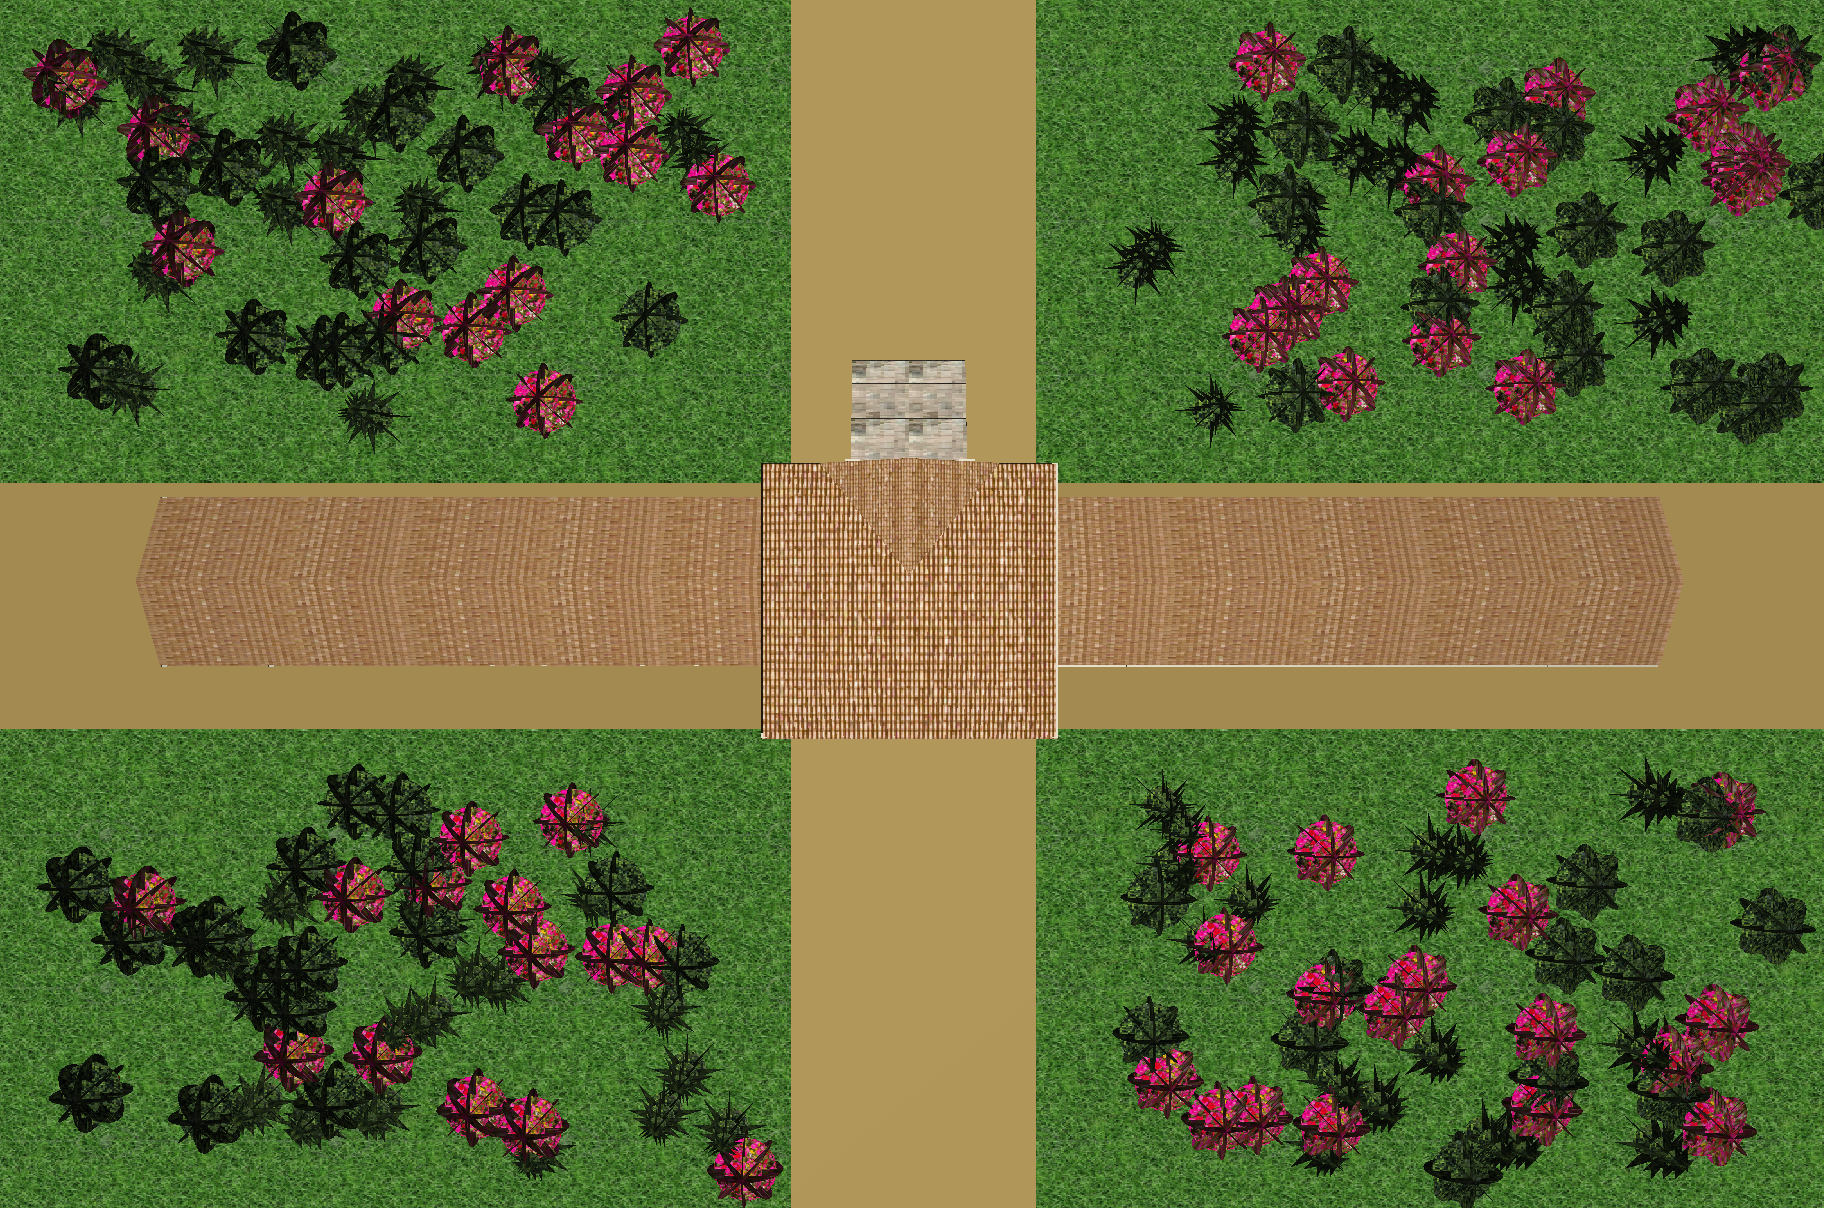
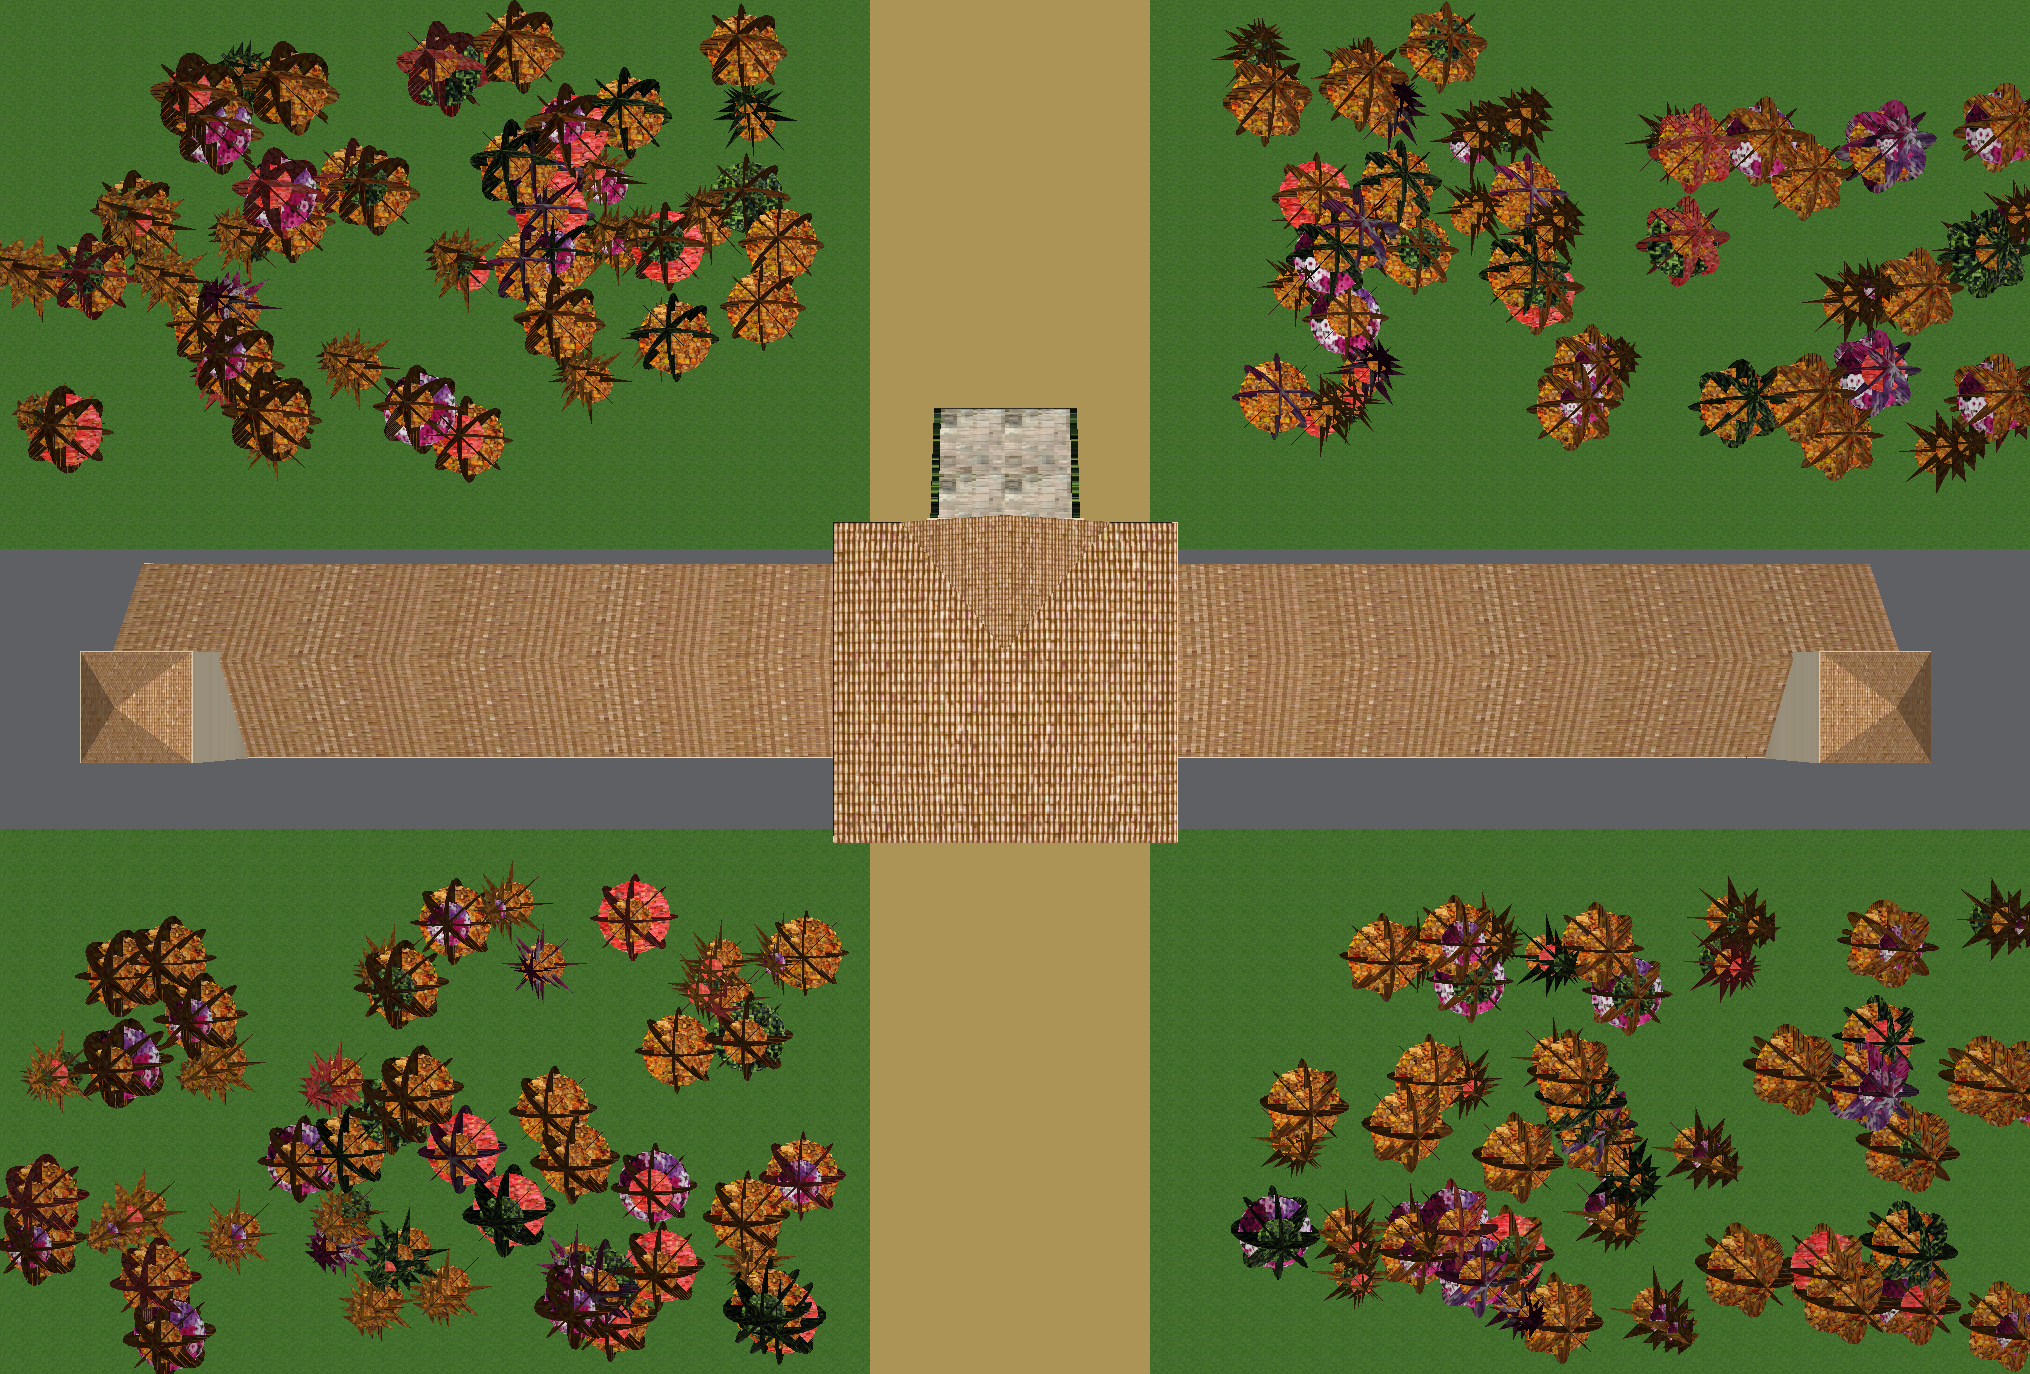
fixes

diff --git a/0-villa-emo/view.py b/0-villa-emo/view.py
@@ -1,6 +1,23 @@
 from larlib import *
 import os
 import random
+from datetime import date, datetime
+import numpy
+
+def get_season(now):
+    Y = 2000
+    seasons = [(3, (date(Y, 1, 1), date(Y, 3, 20))),
+               (0, (date(Y, 3, 21), date(Y, 6, 20))),
+               (1, (date(Y, 6, 21), date(Y, 9, 22))),
+               (2, (date(Y, 9, 23), date(Y, 12, 20))),
+               (3, (date(Y, 12, 21), date(Y, 12, 31)))]
+    if isinstance(now, datetime):
+        now = now.date()
+    now = now.replace(year=Y)
+    return next(season for season, (start, end) in seasons
+                if start <= now <= end)
+
+SEASON = get_season(date.today())
 
 __dir = os.path.dirname(__file__)
 
@@ -20,10 +37,13 @@ def texture(f, scale_x=1., scale_y=1.):
 def tegole(scale_x=2, scale_y=2):
     return texture("tegole.jpg", scale_x, scale_y)
 
-
 def intonaco():
-    return HEX("#ccc6b1")
+    return texture("intonaco.jpg")
 
+
+def cespugli(depth, height, N):
+    cespuglio = texture("1.jpg")(CUBOID([depth, depth, height]))
+    return STRUCT(map(lambda x : T([2, 3])([x*depth, x*height])(cespuglio), range(0, N)))
 
 def tetto_piramidale(depth, width, height):
     """
@@ -165,8 +185,7 @@ def ripeti(object, times, space=0):
 
 def gorgegous_column(dm, h):
     cylndr = COMP([JOIN, TRUNCONE([dm / 2, .8 * dm / 2, h])])(24)
-    torus_bot = COMP([JOIN, TORUS([dm / 12, dm / 2])])([8, 27])
-    torus_top = COMP([JOIN, TORUS([.8 * (dm / 12), .8 * (dm / 2)])])([8, 24])
+    torus_bot = COMP([JOIN, TORUS([dm / 2,  .7*dm])])([8, 27])
     base = COMP([T([1, 2])([7 * dm / -12, 7 * dm / -23]), CUBOID])(
         [7 * dm / 6, 7 * dm / 6, dm / 6])
     base_top = COMP([T([1, 2])([7 * dm / -12, 7 * dm / -12]), CUBOID])(
@@ -175,7 +194,7 @@ def gorgegous_column(dm, h):
         COMP([JOIN, TRUNCONE([.8 * dm / 2, 1.2 * dm / 2, h / 8])])(4),
         COMP([R([1, 2])(PI / 4), JOIN, TRUNCONE([.8 * dm / 2, 1.2 * dm / 2, h / 8])])(4)
     ])
-    return TOP([TOP([TOP([TOP([TOP([base, torus_bot]), cylndr]), torus_top]), capital]), base_top])
+    return TOP([TOP([TOP([TOP([base, torus_bot]), cylndr]), capital]), base_top])
 
 def tetto_piccolo():
     return STRUCT([
@@ -199,10 +218,10 @@ def steps(steps, width, height, depth):
 
 
 def prato():
-    layer1 = T([1, 2, 3])([-1700, -4000, 0])(texture("prato.jpg", 8, 8)(CUBOID([15000, 10000])))
+    layer1 = T([1, 2, 3])([-1700, -4000, 0])(texture("prato.jpg", 70, 70)(CUBOID([15000, 10000])))
     layer2 = TOP([
         CUBOID([2000, 10000]),
-        CUBOID([15000, 2000]),
+        HEX("#6e6f72")(CUBOID([15000, 2000])),
     ])
     return TOP([layer1, HEX("#b59a5a")(layer2)])
 
@@ -268,52 +287,51 @@ def archs():
     return intonaco()(ripeti(arch_11, 2, 2140))
 
 
-def albero(treeType, rTree, hTree, hTrunk):
-    ambient = [0.0, 0.0, 0.0, 1.0]
-    diffuse = [0.459, 0.27157, 0.0000, 1]
-    specular = [0.0225, 0.0225, 0.0225, 1.0]
-    emission = [0.0, 0.0, 0.0, 1.0]
-    shininess = [12.8]
-    woodMaterial = ambient + diffuse + specular + emission + shininess
-    textureExtended = 'foliage2.jpg'
-    textureNormal = 'foliage.jpg'
+def albero(tipologia, rAlbero, hAlbero, hTronco, stagione = SEASON):
 
-    if treeType == 3:
-        textureExtended = 'flower.jpg'
-        treeType = 2
+    def pattern():
+        probability = [.1, .1, .1, .1]
+        probability[int(stagione)] = .7
+        tipologia = numpy.random.choice(numpy.arange(0, 4), p=probability)
+        return str(tipologia)+'.jpg'
 
-    hFoliage = hTree - hTrunk
-    if treeType == 1:
-        foliage = MKPOL([[[0, 0, 0], [0, rTree, 0], [0, rTree * 1.5 / 4, hFoliage * 1 / 3],
-                          [0, rTree * 3 / 4, hFoliage * 1 / 3], [0, rTree * 1 / 4, hFoliage * 2 / 3],
-                          [0, rTree * 2 / 4, hFoliage * 2 / 3],
-                          [0, 0, hFoliage], [0, 0, hFoliage * 2 / 3], [0, 0, hFoliage * 1 / 3]],
+    if tipologia == 3:
+        tipologia = 2
+
+    hFogliame = hAlbero - hTronco
+    if tipologia == 1:
+        fogliame = MKPOL([[[0, 0, 0], [0, rAlbero, 0], [0, rAlbero * 1.5 / 4, hFogliame * 1 / 3],
+                           [0, rAlbero * 3 / 4, hFogliame * 1 / 3], [0, rAlbero * 1 / 4, hFogliame * 2 / 3],
+                           [0, rAlbero * 2 / 4, hFogliame * 2 / 3],
+                           [0, 0, hFogliame], [0, 0, hFogliame * 2 / 3], [0, 0, hFogliame * 1 / 3]],
                          [[1, 2, 3, 9], [9, 4, 5, 8], [8, 6, 7]], 1])
-        foliage = texture(textureExtended)(foliage)
-        circle1 = texture(textureNormal)(CYLINDER([rTree * 1 / 2, 0])(10))
-        circle2 = texture(textureNormal)(CYLINDER([rTree * 3 / 8, 0])(10))
-        circle3 = texture(textureNormal)(CYLINDER([rTree * 2 / 8, 0])(10))
-        foliage = STRUCT([foliage, circle1, T(3)(hFoliage * 1 / 3), circle2, T(3)(hFoliage * 1 / 3), circle3])
+        fogliame = texture(pattern())(fogliame)
+        c1 = texture(pattern())(CYLINDER([rAlbero * 1 / 2, 0])(10))
+        c2 = texture(pattern())(CYLINDER([rAlbero * 3 / 8, 0])(10))
+        c3 = texture(pattern())(CYLINDER([rAlbero * 2 / 8, 0])(10))
+        fogliame = STRUCT([fogliame, c1, T(3)(hFogliame * 1 / 3), c2, T(3)(hFogliame * 1 / 3), c3])
 
-    elif treeType == 2:
-        foliage = T(3)(rTree * 1 / 2)(R([1, 3])(math.pi / 2)(CYLINDER([rTree * 1 / 2, 0])(20)))
-        foliage = S([2, 3])([2, hFoliage / rTree])(foliage)
-        foliage = texture(textureExtended)(foliage)
-        circle1 = texture(textureExtended)(CYLINDER([rTree * 1 / 2, 0])(10))
-        circle2 = texture(textureExtended)(CYLINDER([rTree * 5 / 6, 0])(10))
-        circle3 = texture(textureExtended)(CYLINDER([rTree * 1 / 2, 0])(10))
-        foliage = STRUCT(
-            [foliage, T(3)(hFoliage * 1 / 4), circle1, T(3)(hFoliage * 1 / 4), circle2, T(3)(hFoliage * 1 / 4),
-             circle3])
+    elif tipologia == 2:
+        fogliame = T(3)(rAlbero * 1 / 2)(R([1, 3])(math.pi / 2)(CYLINDER([rAlbero * 1 / 2, 0])(20)))
+        fogliame = S([2, 3])([2, hFogliame / rAlbero])(fogliame)
+        fogliame = texture(pattern())(fogliame)
+        c1 = texture(pattern())(CYLINDER([rAlbero * 1 / 2, 0])(10))
+        c2 = texture(pattern())(CYLINDER([rAlbero * 5 / 6, 0])(10))
+        c3 = texture(pattern())(CYLINDER([rAlbero * 1 / 2, 0])(10))
+        fogliame = STRUCT(
+            [fogliame, T(3)(hFogliame * 1 / 4), c1, T(3)(hFogliame * 1 / 4), c2, T(3)(hFogliame * 1 / 4),
+             c3])
 
-    foliage = STRUCT([foliage, S(2)(-1), foliage])
+    fogliame = STRUCT([fogliame, S(2)(-1), fogliame])
     i = 0
     while i < 3.14:
         i += 3.14 / 4
-        foliage = STRUCT([foliage, R([1, 2])(i), foliage])
+        fogliame = STRUCT([fogliame, R([1, 2])(i), fogliame])
 
-    trunk = MATERIAL(woodMaterial)(CYLINDER([rTree / 16, hTrunk])(10))
-    tree = STRUCT([trunk, T(3)(hTrunk), foliage])
+    trunk = MATERIAL([
+        0.0, 0.0, 0.0, 1.0, 0.459, 0.27157, 0.0000, 1, 0.0225, 0.0225, 0.0225, 1.0, 0.0, 0.0, 0.0, 1.0,12.8
+    ])(CYLINDER([rAlbero / 16, hTronco])(10))
+    tree = STRUCT([trunk, T(3)(hTronco), fogliame])
 
     return tree
 
@@ -321,17 +339,38 @@ tramezzi_centrale = intonaco()(tramezzi_centrale())
 tramezzi_laterali = intonaco()(tramezzi_laterali())
 tetto_centrale = tegole()(tetto_piramidale(2000, 2150, 400))
 tetti_laterali = tegole(6, 6)(ripeti(tetto_triangolo(4700, 1300), 2, 2150))
-gorgeous_columns = intonaco()(ripeti(gorgegous_column(100, 530), 4, 220))
-scale = texture("steps.jpg", 2, 2)(steps(30, 920, 400, 1000))
+gorgeous_columns = intonaco()(ripeti(gorgegous_column(100., 580.), 4, 220))
+scale = LEFT([
+    RIGHT([
+        texture("steps.jpg", 2, 2)(steps(25, 920, 400, 1000)),
+        texture("1.jpg", 2, 2)(steps(25, 50, 500, 1000))
+    ]),
+    texture("1.jpg", 2, 2)(steps(25, 50, 500, 1000))
+])
 floor = texture("atrio.jpg")(T([1, 2, 3])([4700, 50, 400])(CUBOID([2150, 1950, 1])))
 
+def foresta(stagione=0):
+    def get_random_tree():
+        tipologia = random.randint(1,3)
+        rAlbero = float(300)
+        rAlbero = float(300)
+        hAlbero = float(random.randint(400, 800))
+        hTronco = hAlbero/4
+        return albero(tipologia,rAlbero,hAlbero,hTronco)
 
-foresta = STRUCT([
-    STRUCT(map(lambda x: T([1, 2])([random.randint(-1000,4500), random.randint(2500,5500)])(albero(random.randint(1,3),300.,600.,100.)), range(0, 50))),
-    T(1)(8500)(STRUCT(map(lambda x: T([1, 2])([random.randint(-1000,4500), random.randint(2500,5500)])(albero(random.randint(1,3),300.,600.,100.)), range(0, 50)))),
-    T([1,2])([8500,-6000])(STRUCT(map(lambda x: T([1, 2])([random.randint(-1000, 4500), random.randint(2500, 5500)])(albero(random.randint(1, 3), 300., 600., 100.)), range(0, 50)))),
-    T([1, 2])([0, -6000])(STRUCT(map(lambda x: T([1, 2])([random.randint(-1000, 4500), random.randint(2500, 5500)])(albero(random.randint(1, 3), 300., 600., 100.)), range(0, 50)))),
-])
+    return STRUCT([
+        STRUCT(map(lambda x: T([1, 2])([random.randint(-1000,4500), random.randint(2500,5500)])(get_random_tree()), range(0, 50))),
+        T(1)(8500)(STRUCT(map(lambda x: T([1, 2])([random.randint(-1000,4500), random.randint(2500,5500)])(get_random_tree()), range(0, 50)))),
+        T([1,2])([8500,-6000])(STRUCT(map(lambda x: T([1, 2])([random.randint(-1000, 4500), random.randint(2500, 5500)])(get_random_tree()), range(0, 50)))),
+        T([1, 2])([0, -6000])(STRUCT(map(lambda x: T([1, 2])([random.randint(-1000, 4500), random.randint(2500, 5500)])(get_random_tree()), range(0, 50)))),
+    ])
+
+def torre():
+    l = 700
+    return TOP([
+        intonaco()(CUBOID([l, l, 1200])),
+        tegole()(tetto_piramidale(l, l, 200))
+    ])
 
 VIEW(
     STRUCT([
@@ -349,6 +388,7 @@ VIEW(
         scale,
         floor,
         prato(),
-        foresta,
-]),
+        foresta(1),
+        T(2)(535)(ripeti(torre(), 2, 10147)),
+    ]),
 )
